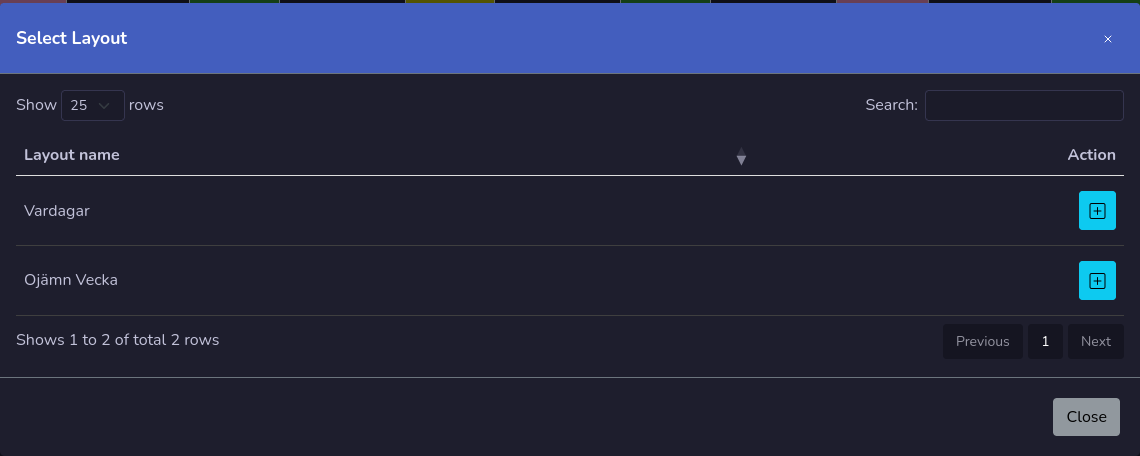
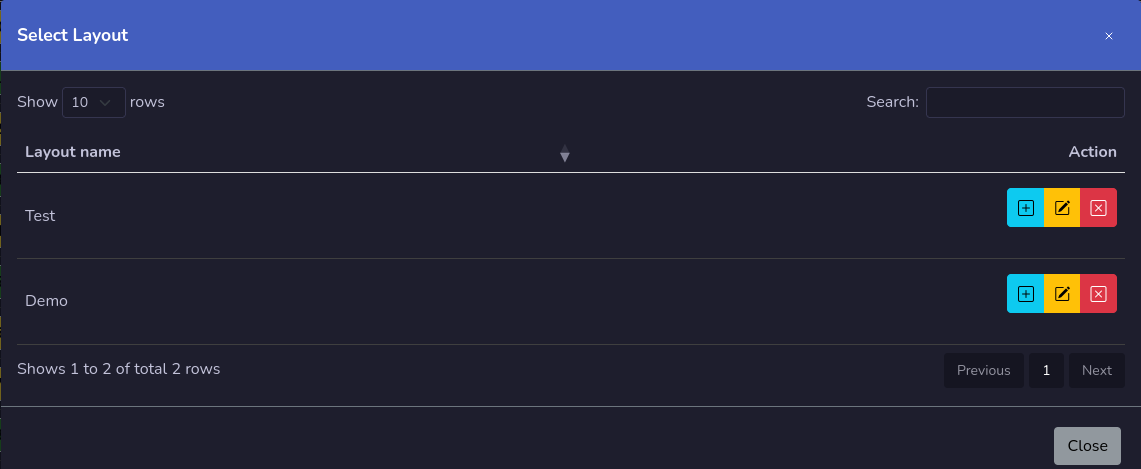
Updated documentation with grid layout edit info.

diff --git a/docs/grids.md b/docs/grids.md
@@ -30,6 +30,14 @@ Press the Save layout button to save that grid. Give it a name and press save. Y
 ![Screenshot](img/selectgridlayout.png)
 Press the Select Layout button to change to another grid layout. Select what you would like to use and press the plus button.
 
+### Edit grid layout
+![Screenshot](img/editgridlayout.png)
+If you press the yellow button with an pen on you can edit that grid layout without need to do changes on active grid. You edit like you edit the grid. But changes will only affect on the layout, and not on rivendells grid.
+
+### Remove grid layout
+Press the red remove button on selected grid layout to remove it. This will only remove your grid layout. Not any active grid in Rivendell.
+
+
 !!! Danger
 
     The grid will be replaced with the selected grid layout as soon as you confirm that you want to add it.
